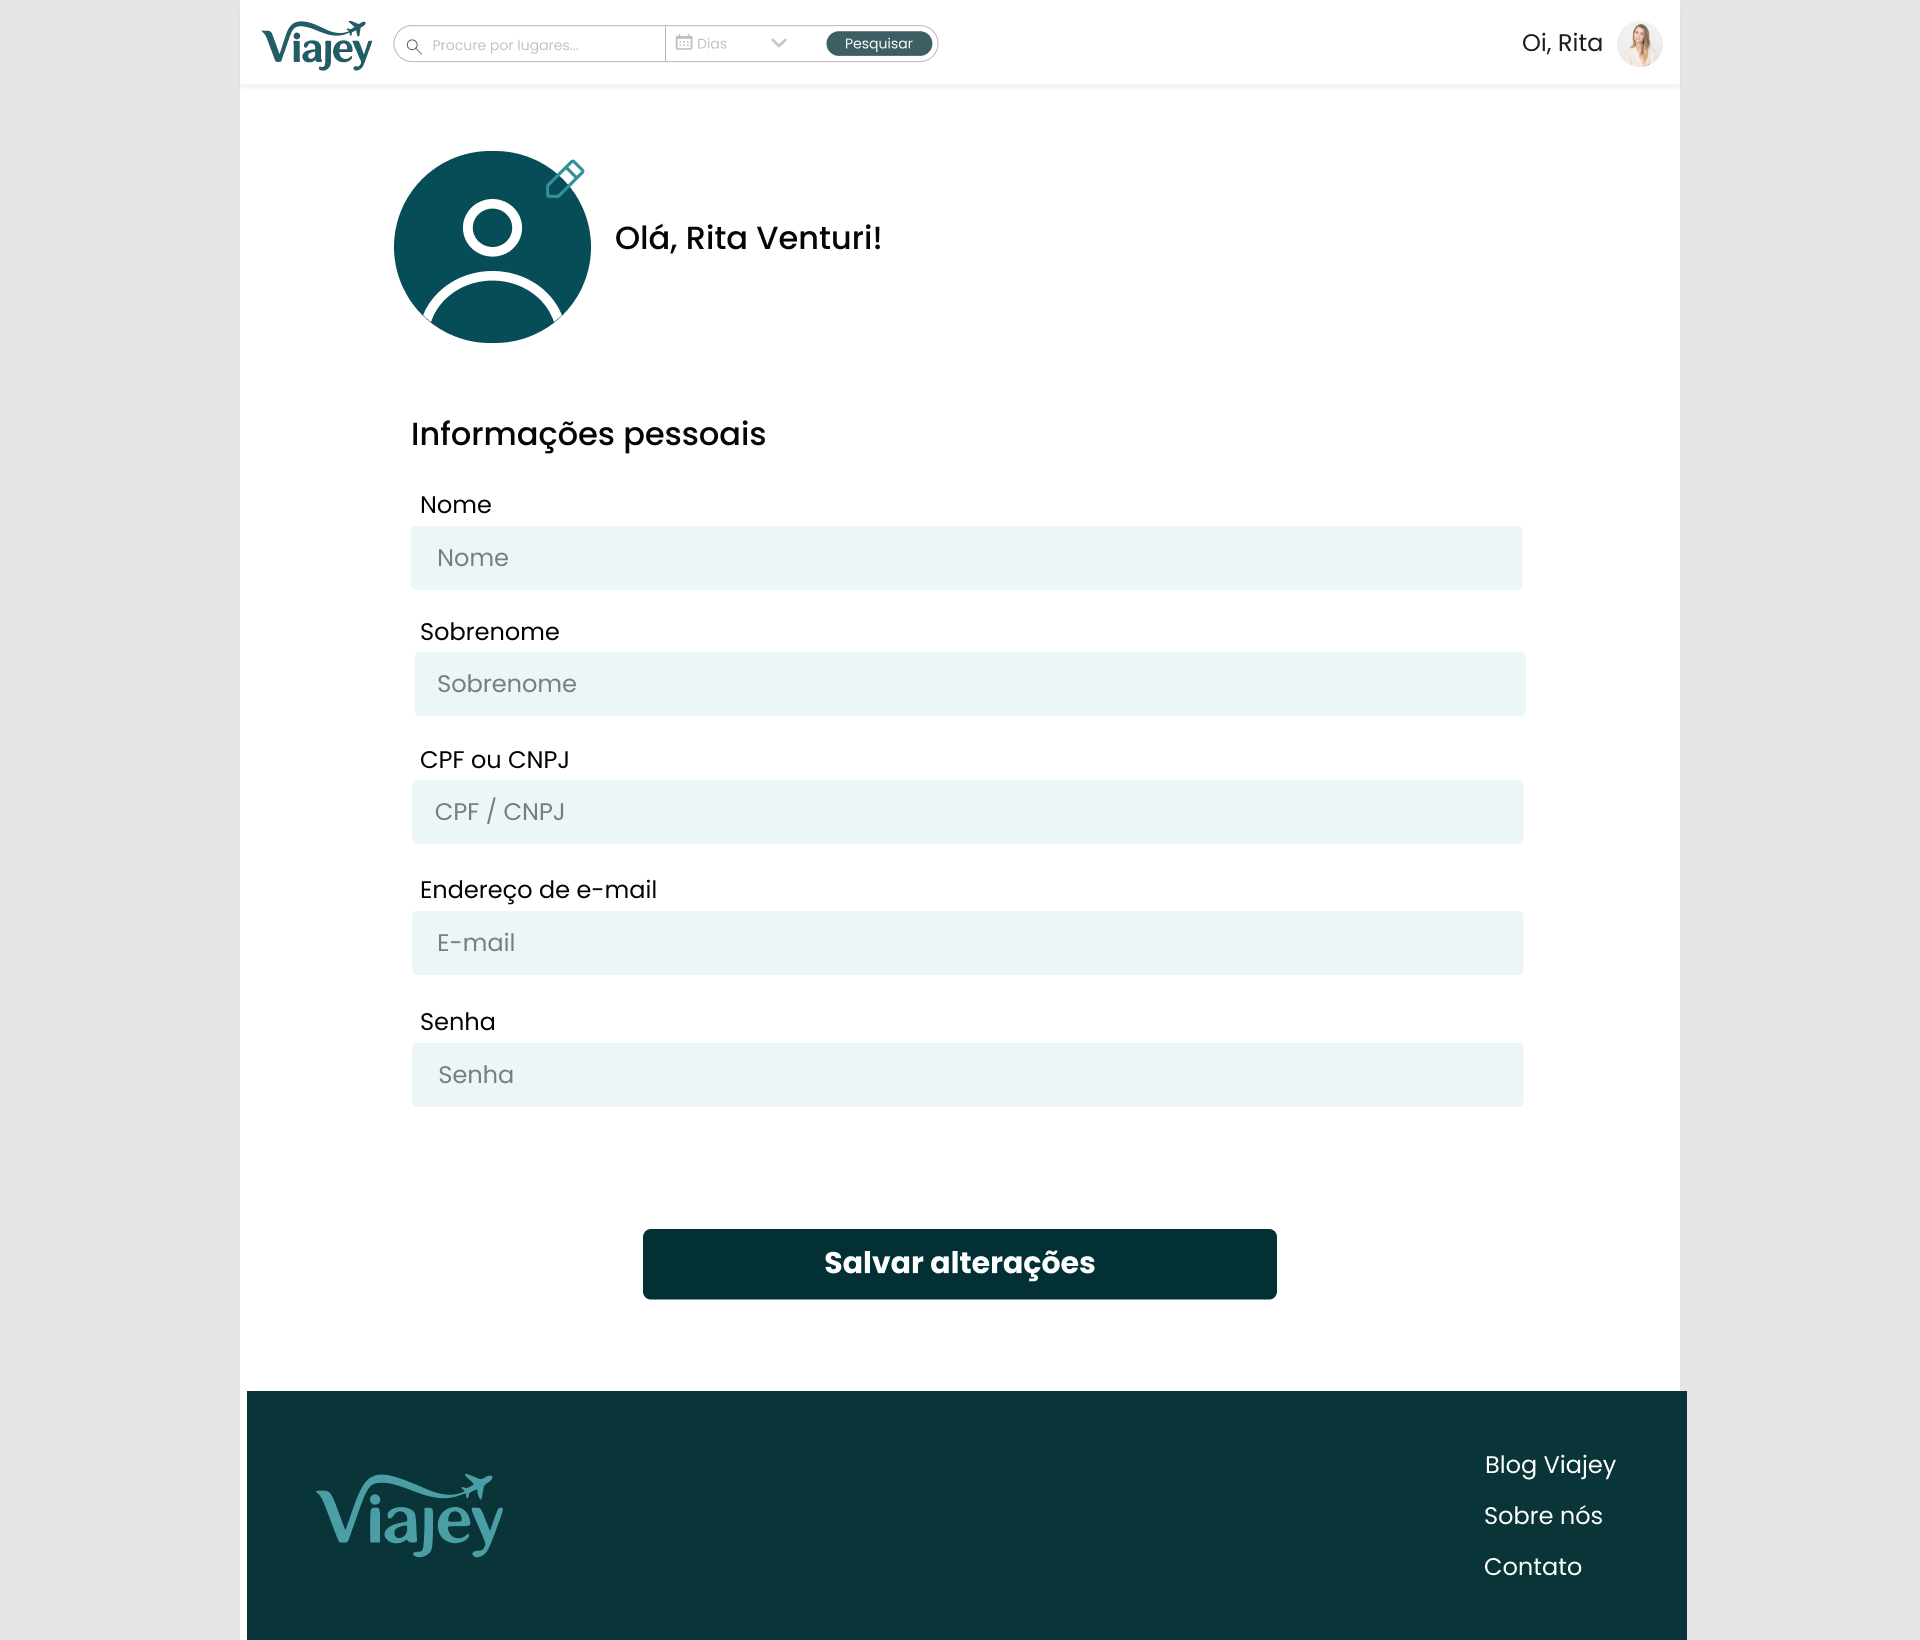
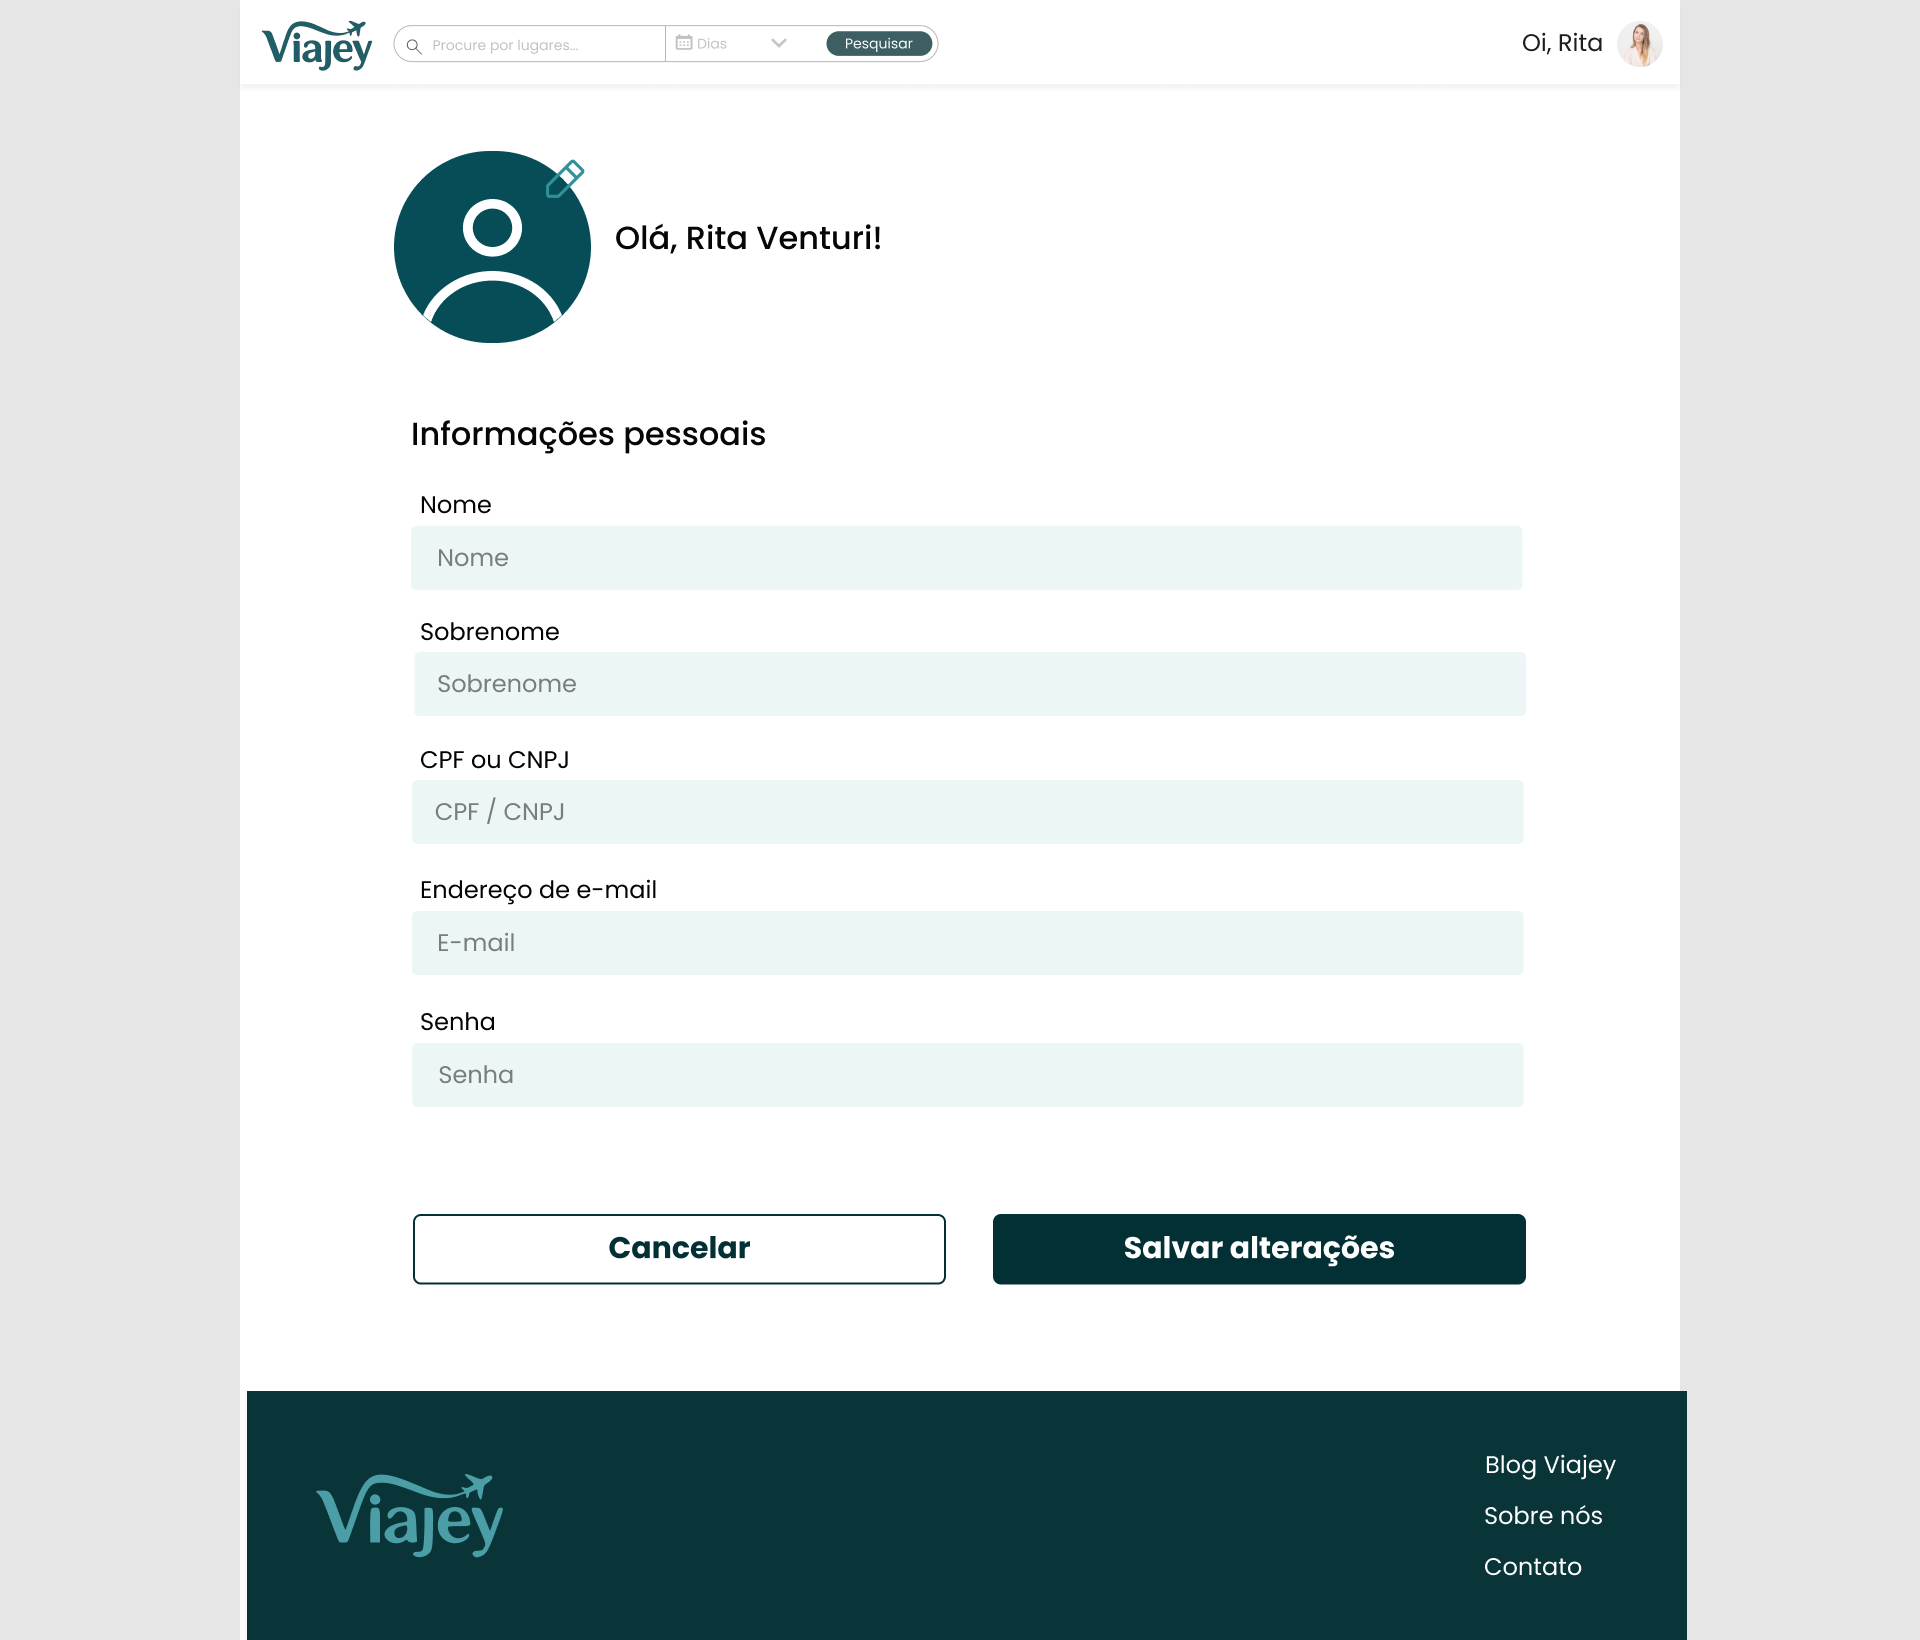
Add Telas Iniciais 02

Changed region(s): [[0.3125, 0.7152, 0.8125, 0.8085]]

diff --git a/docs/design.md b/docs/design.md
@@ -120,3 +120,94 @@ Fornecer um meio para que o usuário recupere o acesso à conta, caso tenha esqu
 - **Minimização da carga de trabalho do usuário**: Por ter apenas um campo, a carga cognitiva é quase nula.
 
 ![tela-de-recuperação-de-senha](../assets/Telas/Tela%20de%20Recuperar%20senha.png)
+
+## Tela de Gerenciamento de Conta
+### Objetivo da Tela
+Disponibilizar ao usuário um espaço para visualizar e editar informações da própria conta, como nome, e-mail, senha e dados pessoais. É um recurso importante para a atualização cadastral.
+
+### Princípios Gestálticos
+- **Proximidade**: Os campos estão agrupados sob o título “Informações pessoais”;
+- **Similaridade**: Todos os campos mantém estilo e cores uniformes;
+- **Continuidade**: A estrutura vertical é mantida, guiando o usuário de cima para baixo;
+- **Conectividade**: O ícone de lápis ao lado do avatar indica editabilidade de forma visualmente conectada.
+
+### Regras de Ouro
+- **Consistência**: A tela segue o mesmo padrão visual da tela de cadastro, criando coerência na experiência;
+- **Atalhos**: A função de alterar a foto de perfil está sinalizada com o ícone de lápis, o que agiliza o entendimento do usuário e, consequentemente, a ação;
+- **Feedbacks Informativos**: Embora não visível nesta imagem, o botão "Salvar alterações" é um componente que fornece feedback ao ser clicado (mensagem de erro ou sucesso);
+- **Minimizar Carga de Memória**: Campos são autoexplicativos e já vêm preenchidos com os dados do usuário, o que evita retrabalho e memorização;
+- **Controle ao Usuário**: Caso o usuário não queira realizar nenhuma alteração, basta clicar no botão "Cancelar".
+
+### Recomendações Ergonômicas
+- **Agrupamento e distinção entre itens**: Todos os campos estão sob o título “Informações pessoais”, criando clareza de contexto;
+- **Consistência**: Ícones, estilo de campos e botões seguem o padrão adotado em outras telas do projeto;
+- **Controle explícito**: O botão de “Salvar alterações” está em destaque visual, com boa área de toque.
+
+![tela-de-garenciamento-de-conta](../assets/Telas/Tela%20de%20Gerenciamento%20de%20conta.png)
+
+## Tela de Gerenciamento dos Favoritos
+### Objetivo da Tela
+Exibir os conteúdos ou anúncios que o usuário marcou como favoritos, permitindo que ele acesse rapidamente itens de interesse. Funciona como uma área de acesso rápido e personalizado, promovendo a retomada de navegação em conteúdos salvos.
+
+### Princípios Gestálticos
+- **Região comum**: Cada item está contido em uma área delimitada (card), o que agrupa visualmente os elementos relacionados;
+- **Proximidade**: Os cards estão dispostos lado a lado com espaçamento uniforme, organizando os elementos de maneira clara;
+- **Similaridade**: Os cards possuem estrutura idêntica, reforçando a ideia de grupo;
+- **Continuidade**: A grade regular e os alinhamentos verticais/horizontais facilitam a navegação visual;
+- **Simetria**: Os elementos são balanceados entre colunas e linhas.
+
+### Regras de Ouro
+- **Consistência**: Todos os campos seguem o mesmo estilo das demais telas do projeto;
+- **Controle ao Usuário**: Possibilidade de adicionar ao roteiro, excluir o item dos Favoritos e ver detalhes do item favoritado dá poder ao usuário;
+- **Atalhos**: O botão de "+ Roteiro" funciona como um atalho para inserir o item em um roteiro, o que agiliza o processo;
+- **Prevenção de erros**: O ícone da lixeira é discreto (o que pode evitar cliques acidentais) e é exibida uma mensagem para confirmação de exclusão, prevenindo erros acidentais.
+
+### Recomendações Ergonômicas
+- **Agrupamento e distinção entre itens**: A organização em grid facilita a visualização de múltiplos favoritos ao mesmo tempo;
+- **Consistência**: Ícones, estilo de campos e botões seguem o padrão adotado em outras telas do projeto.
+
+![tela-de-gerenciamento-de-favoritos](../assets/Telas/Gerenciar%20Favoritos.png)
+
+## Tela de Gerenciamento de Avaliações
+### Objetivo da Tela
+Apresentar ao usuário as avaliações que ele já realizou, possibilitando a visualização e eventual edição ou exclusão dessas avaliações. Serve como um histórico de interações com a plataforma, contribuindo para o engajamento e o controle do próprio conteúdo publicado.
+
+### Princípios Gestálticos
+- **Proximidade**: Cada avaliação está em um card separado com espaçamento adequado entre os itens, o que facilita a leitura e segmenta visualmente as avaliações;
+- **Simetria**: Os cards são simétricos, com equilíbrio visual;
+- **Similaridade**: Todos os cards seguem o mesmo padrão visual (mesma estrutura e estilo), indicando que são elementos da mesma categoria;
+- **Continuidade**: O layout vertical e o alinhamento consistente das informações (nome, estrelas, texto) favorecem a navegação fluida;
+- **Região comum**: Cada avaliação está em uma caixa delimitada, reforçando o agrupamento lógico.
+
+### Regras de Ouro
+- **Consistência**: A interface segue um padrão visual e de navegação entre as abas;
+- **Minimizar Carga de Memória**: As informações são visuais e contextuais, com estrutura padronizada.
+
+### Recomendações Ergonômicas
+- **Agrupamento e distinção entre itens**: O agrupamento das avaliações ajuda na busca visual por informações;
+- **Consistência**: Ícones, estilo de campos e botões seguem o padrão adotado em outras telas do projeto;
+- **Minimização da carga de trabalho do usuário**: Layout limpo reduz o esforço cognitivo do usuário.
+
+![tela-de-gerenciamento-de-avaliações](../assets/Telas/Gerenciar%20Avaliações.png)
+
+## Tela Inicial
+### Objetivo da Tela
+Apresentar ao usuário as avaliações que ele já realizou, possibilitando a visualização e eventual edição ou exclusão dessas avaliações. Serve como um histórico de interações com a plataforma, contribuindo para o engajamento e o controle do próprio conteúdo publicado.
+
+### Princípios Gestálticos
+- **Proximidade**: Blocos de conteúdo e chamadas estão bem agrupados, reforçando hierarquia visual;
+- **Simetria**: Os cards inferiores são simétricos;
+- **Fechamento**: Delimitação clara dos elementos;
+- **Continuidade**: Alinhamento vertical e horizontal mantido de forma clara;
+- **Região comum**: Seções bem separadas: busca, chamada da IA, cards informativos.
+
+### Regras de Ouro
+- **Consistência**: A interface segue um padrão visual e de navegação entre as abas;
+- **Atalhos**: Botão de ação rápida para gerar roteiro com IA de forma agilizada;
+- **Controle ao Usuário**: Possibilidade de escolha ao usuário entre buscar manualmente ou utilizar IA para gerar seu roteiro.
+
+### Recomendações Ergonômicas
+- **Consistência**: Ícones, estilo de campos e botões seguem o padrão adotado em outras telas do projeto;
+- **Minimização da carga de trabalho do usuário**: Layout limpo reduz o esforço cognitivo do usuário.
+
+![tela-inicial](../assets/Telas/Tela%20inicial.png)
